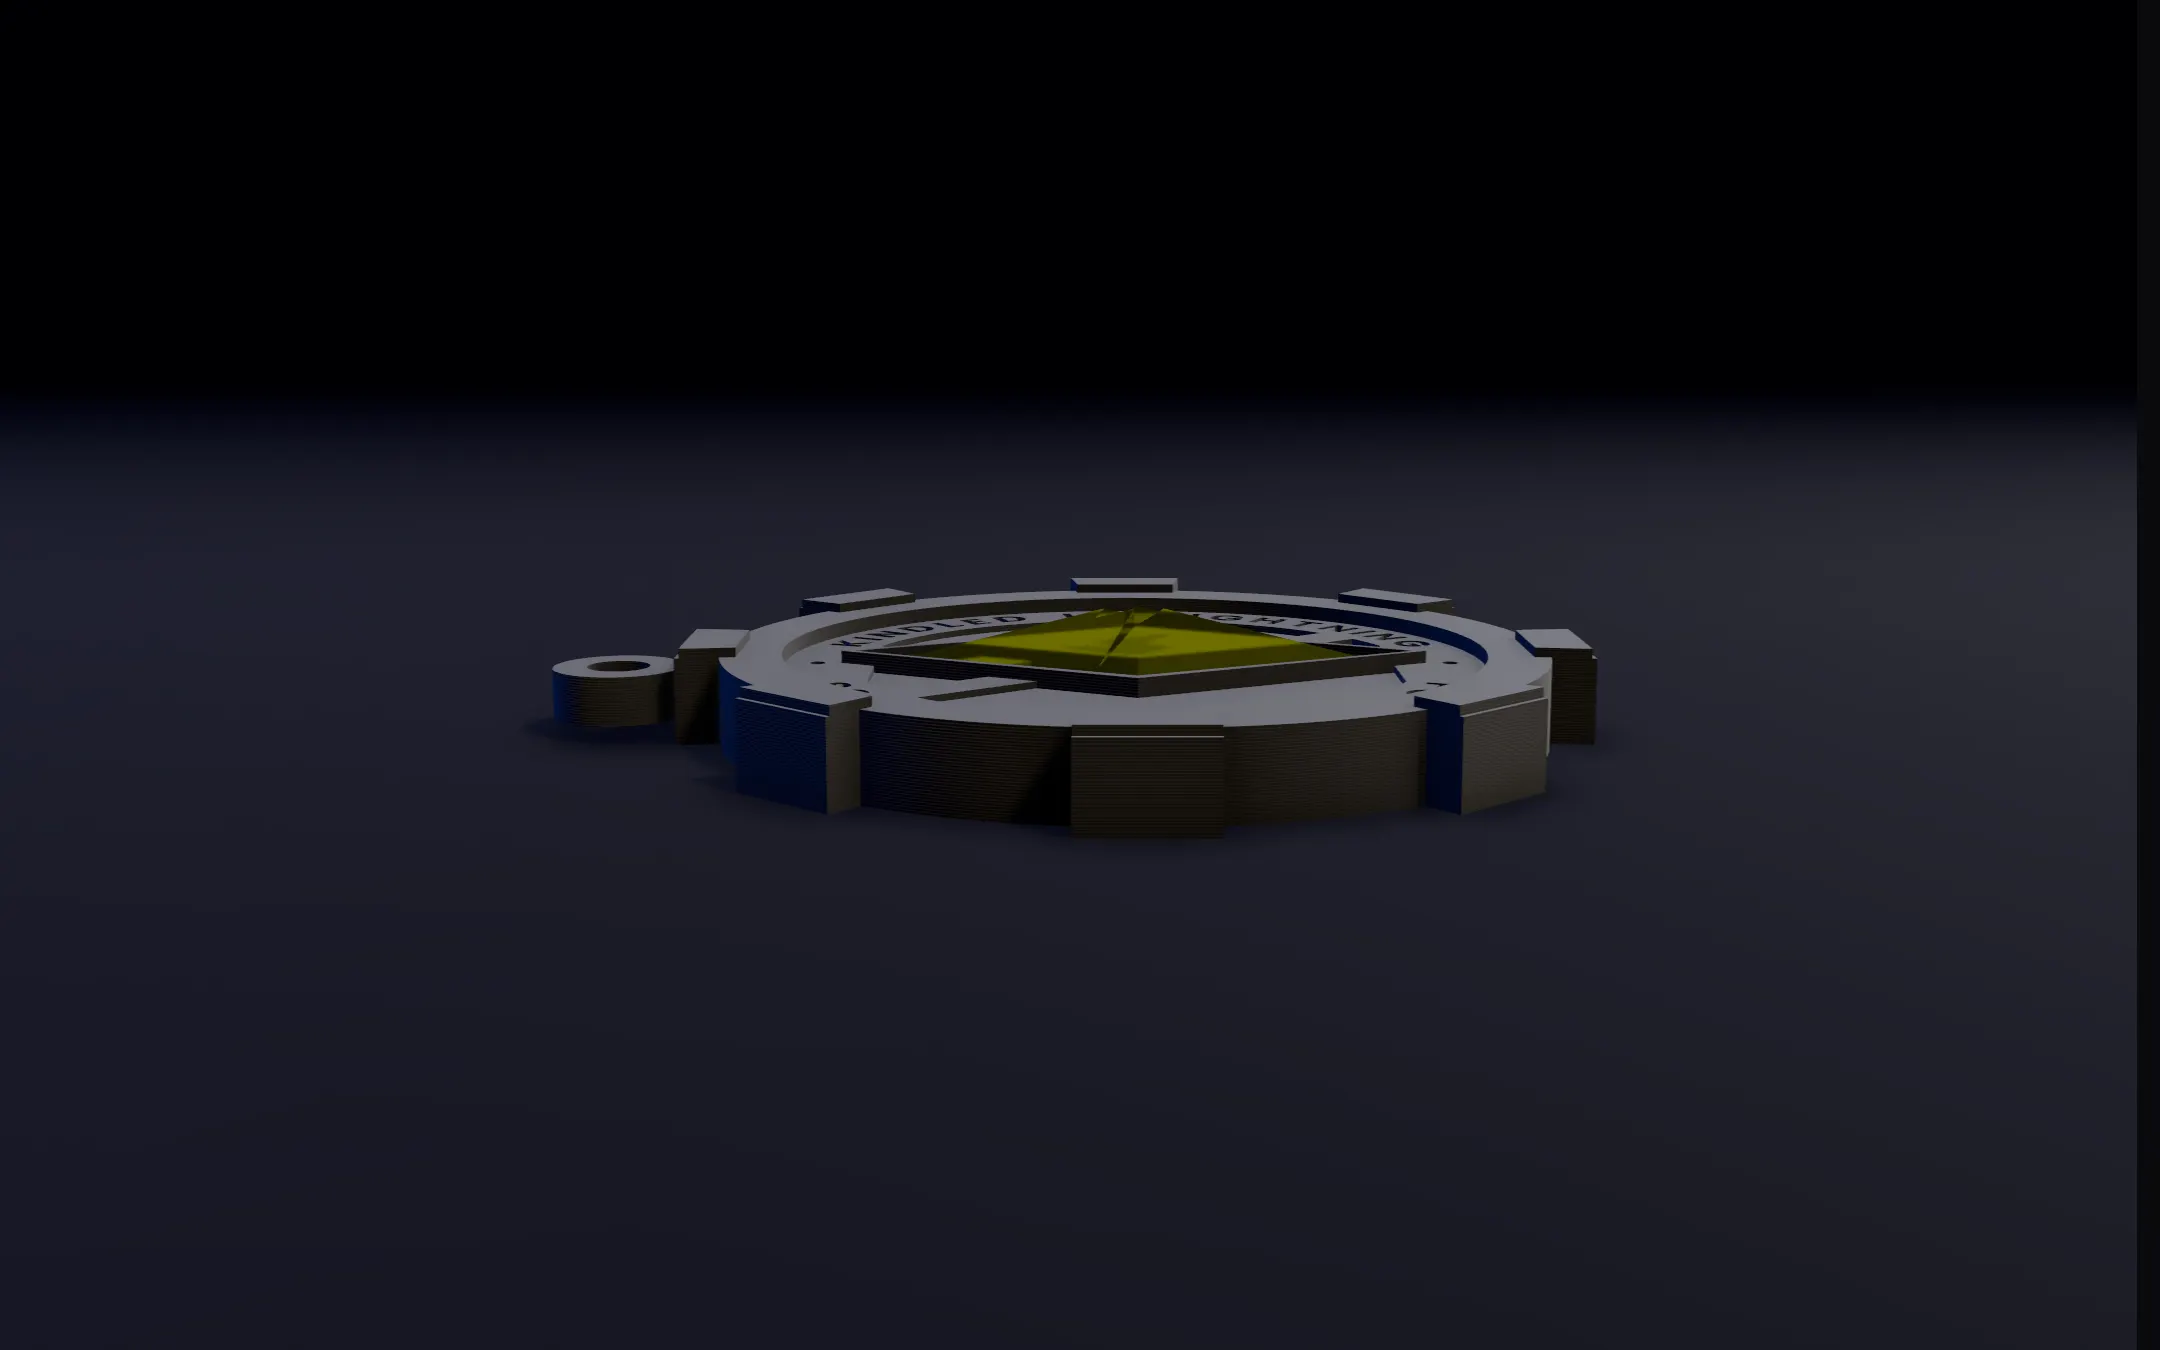
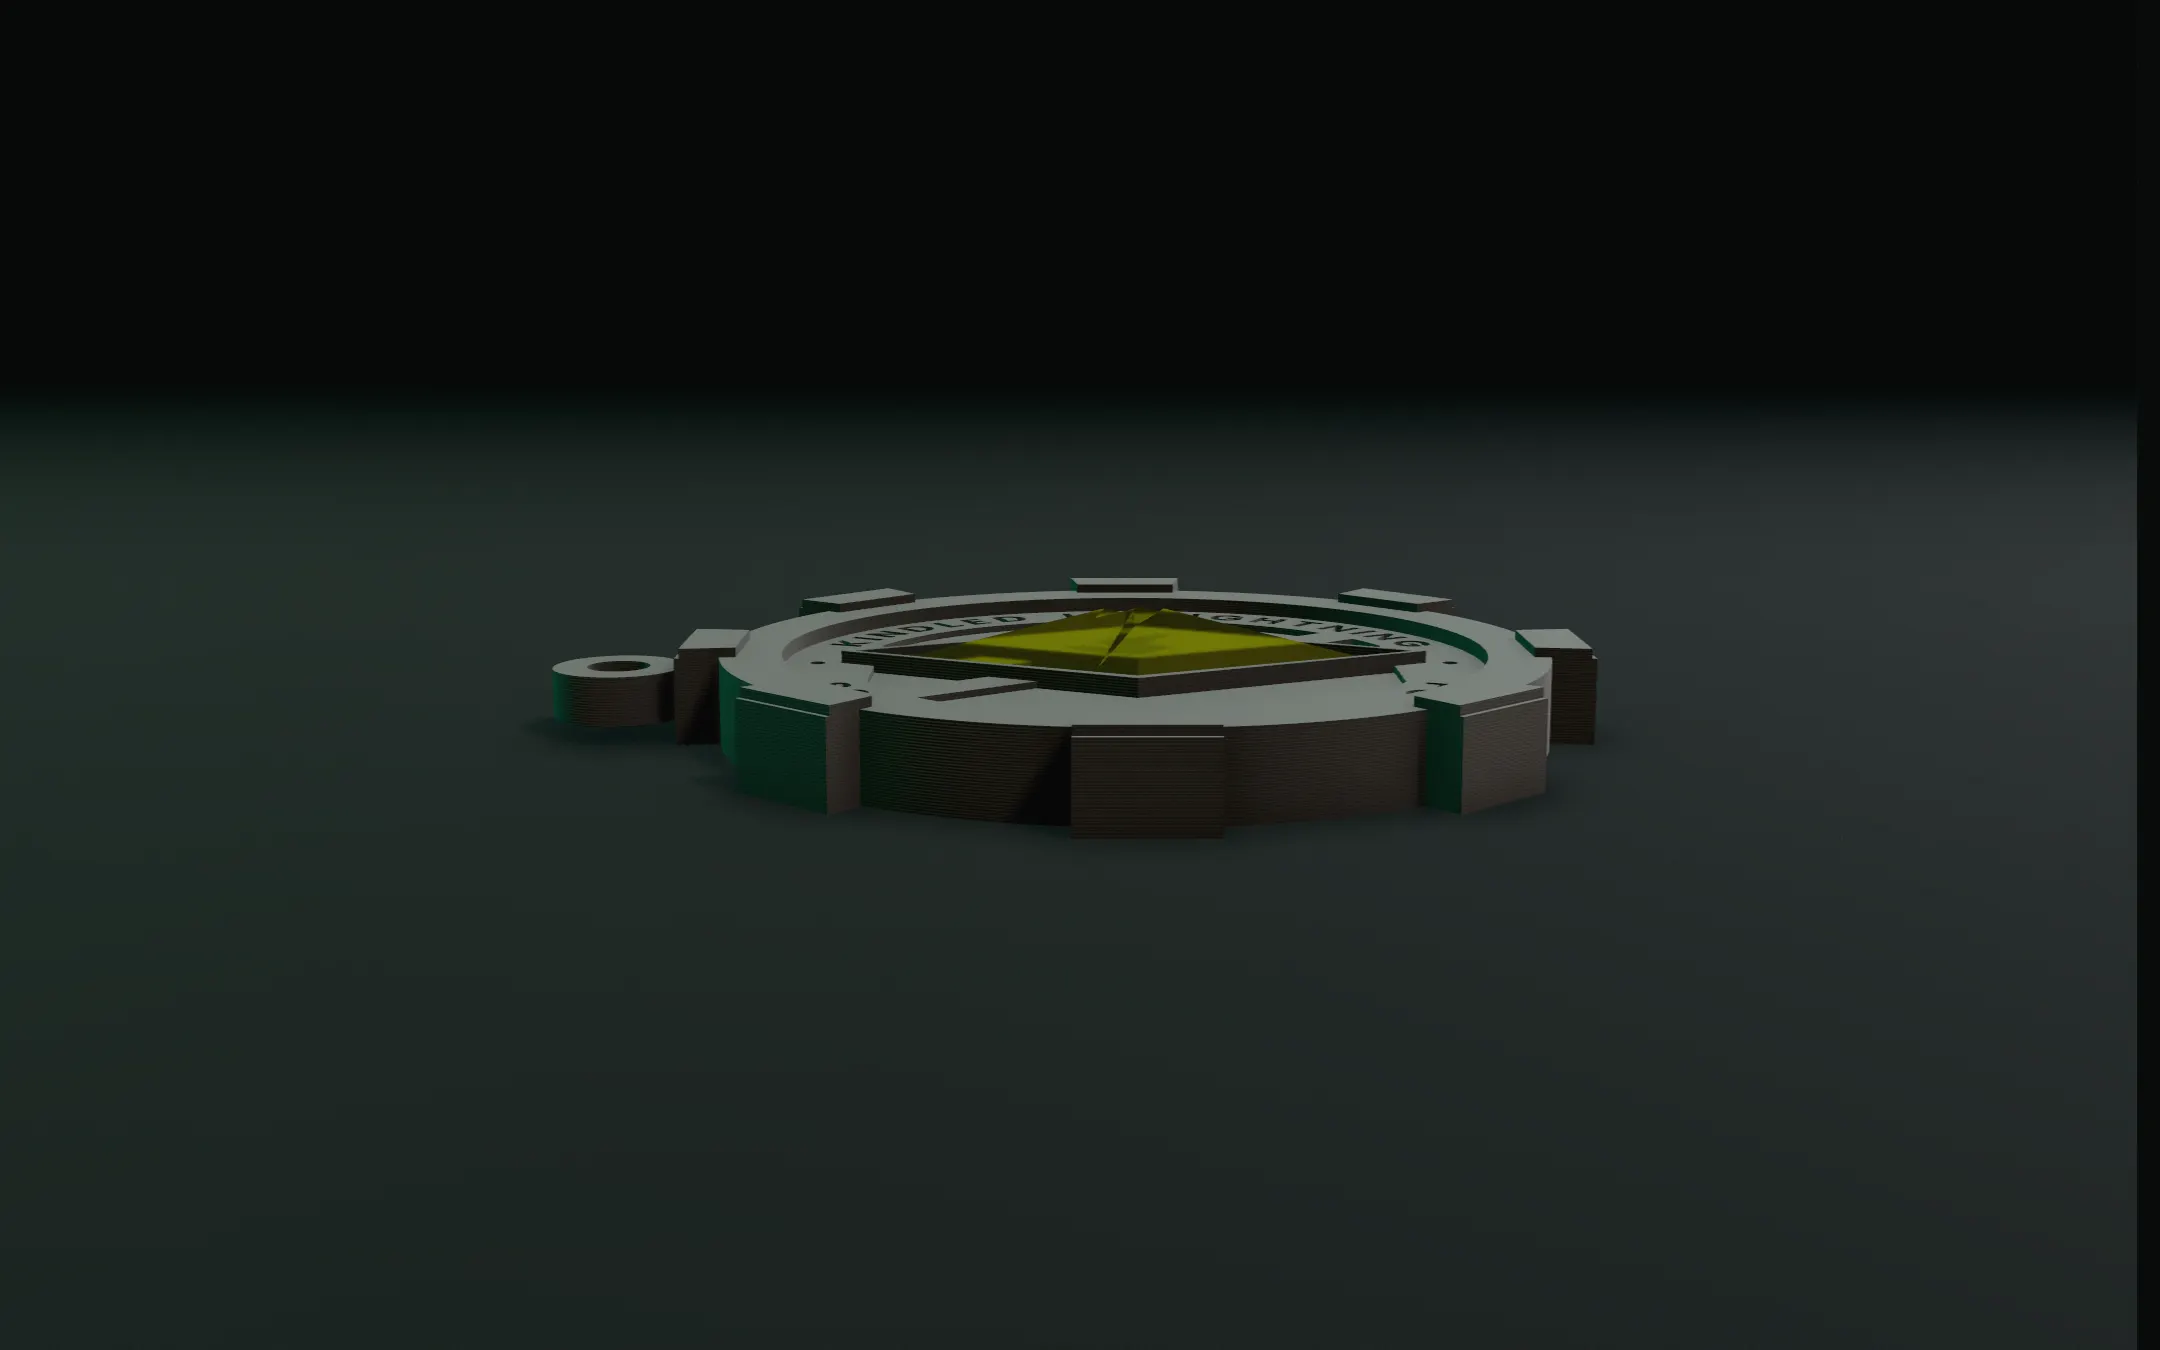
Mint colourway: #2EE6A6 accent on a mint-tinted black, dark text on mint buttons, mint rim light on the prints

diff --git a/src/components/prints/PrintCanvas.tsx b/src/components/prints/PrintCanvas.tsx
@@ -12,7 +12,7 @@ import { models, type ModelEntry } from "@/content/models";
 // panel's model is already in memory when its canvas mounts.
 for (const m of models) useGLTF.preload(m.glb, false, true);
 
-const BG = "#0a0a0c";
+const BG = "#090c0b";
 const { degToRad: rad, smoothstep } = THREE.MathUtils;
 const ease = (p: number, a: number, b: number) => smoothstep(p, a, b);
 
@@ -250,9 +250,9 @@ function Print({ model, progress, clickedAt, aside, onReady }: Omit<PrintCanvasP
 // camera. They're drawn after the backdrop and before the print, ignoring depth, so they sit on the
 // set but under the model. Each click flashes them and speeds them up for a moment.
 const BANNER_ROWS = [
-  { fill: false, color: "#3a4570", y: 1 },
-  { fill: true, color: "#4f7dff", y: 0 },
-  { fill: false, color: "#3a4570", y: -1 },
+  { fill: false, color: "#1f5c47", y: 1 },
+  { fill: true, color: "#2ee6a6", y: 0 },
+  { fill: false, color: "#1f5c47", y: -1 },
 ];
 function bannerTexture(fill: boolean) {
   const canvas = document.createElement("canvas");
@@ -409,13 +409,13 @@ function Studio({ radius, centre, orbit }: { radius: number; centre: THREE.Vecto
         shadow-camera-far={r * 12}
       />
       <directionalLight position={[r * 3, r * 1.5, r * 2]} intensity={0.5} color="#dfe6ff" />
-      <directionalLight position={[r * 1.5, r * 2.5, -r * 4]} intensity={1} color="#4f7dff" />
+      <directionalLight position={[r * 1.5, r * 2.5, -r * 4]} intensity={1} color="#2ee6a6" />
       {orbit && <directionalLight position={[0, r * 6, 0]} intensity={1.2} color="#ffffff" />}
       <spotLight ref={pool} position={[0, r * 5, r * 2]} angle={0.5} penumbra={1} decay={0} intensity={orbit ? 0 : 1.4} color="#e4e2f0" />
       <Environment resolution={256} environmentIntensity={orbit ? 1.1 : 0.75}>
         <Lightformer form="rect" intensity={3} position={[-2, 4, 3]} scale={[5, 3, 1]} target={[0, 0, 0]} />
         <Lightformer form="rect" intensity={1.2} position={[4, 1, 2]} scale={[2, 4, 1]} target={[0, 0, 0]} />
-        <Lightformer form="rect" intensity={2} color="#4f7dff" position={[2, 2, -4]} scale={[3, 2, 1]} target={[0, 0, 0]} />
+        <Lightformer form="rect" intensity={2} color="#2ee6a6" position={[2, 2, -4]} scale={[3, 2, 1]} target={[0, 0, 0]} />
         <Lightformer form="ring" intensity={0.6} position={[0, 6, 0]} scale={4} target={[0, 0, 0]} />
       </Environment>
     </>

diff --git a/src/components/prints/PrintStage.tsx b/src/components/prints/PrintStage.tsx
@@ -47,7 +47,7 @@ const STAGES: Record<string, { captions: Caption[]; place?: CaptionPlace; aside?
 };
 
 const WORDS = ["CLICK!", "CLACK!", "CLICK", "TAK!", "*click*", "CLIK!", "CLICK!!"];
-const COLORS = ["#ffffff", "#4f7dff", "#ff8fb1", "#ffd23f", "#93acff", "#7ef0c2"];
+const COLORS = ["#ffffff", "#2ee6a6", "#ff8fb1", "#ffd23f", "#8ff5d2", "#a78bfa"];
 const pick = <T,>(a: T[]) => a[Math.floor(Math.random() * a.length)];
 
 // A comic-style "CLICK!" somewhere on the stage; spam enough and they fill it.
@@ -142,7 +142,7 @@ export function PrintStage({ model, order }: { model: ModelEntry; order: number 
             <button
               type="button"
               onClick={click}
-              className="relative flex items-center gap-2.5 rounded-full bg-accent px-6 py-3.5 text-sm font-bold tracking-[0.16em] text-white uppercase shadow-[0_0_0_6px_rgb(79_125_255/0.18),0_10px_40px_rgb(79_125_255/0.55)] transition hover:scale-105 active:scale-95 md:text-base"
+              className="relative flex items-center gap-2.5 rounded-full bg-accent px-6 py-3.5 text-sm font-bold tracking-[0.16em] text-bg uppercase shadow-[0_0_0_6px_rgb(46_230_166/0.18),0_10px_40px_rgb(46_230_166/0.55)] transition hover:scale-105 active:scale-95 md:text-base"
             >
               <span className="absolute inset-0 animate-ping rounded-full bg-accent/40 [animation-duration:1.8s]" aria-hidden="true" />
               <MousePointerClick className="relative size-5" aria-hidden="true" />

diff --git a/src/components/SoundPrompt.tsx b/src/components/SoundPrompt.tsx
@@ -32,7 +32,7 @@ export function SoundPrompt() {
       }}
       className="m-auto w-[min(40rem,calc(100%-2.5rem))] overflow-visible bg-transparent text-ink backdrop:bg-bg/80 backdrop:backdrop-blur-xl open:animate-[sound-in_0.5s_cubic-bezier(0.2,1,0.3,1)]"
     >
-      <div className="relative overflow-hidden rounded-3xl border border-line bg-surface/90 px-7 py-10 text-center shadow-[0_40px_160px_rgb(79_125_255/0.25)] md:px-14 md:py-14">
+      <div className="relative overflow-hidden rounded-3xl border border-line bg-surface/90 px-7 py-10 text-center shadow-[0_40px_160px_rgb(46_230_166/0.25)] md:px-14 md:py-14">
         <div
           className="pointer-events-none absolute -top-24 left-1/2 size-72 -translate-x-1/2 rounded-full bg-accent/25 blur-3xl"
           aria-hidden="true"
@@ -57,7 +57,7 @@ export function SoundPrompt() {
             type="button"
             autoFocus
             onClick={() => answer(true)}
-            className="flex items-center justify-center gap-2.5 rounded-full bg-accent px-8 py-4 text-lg font-semibold text-white shadow-[0_10px_40px_rgb(79_125_255/0.5)] transition hover:scale-[1.03] active:scale-95"
+            className="flex items-center justify-center gap-2.5 rounded-full bg-accent px-8 py-4 text-lg font-semibold text-bg shadow-[0_10px_40px_rgb(46_230_166/0.5)] transition hover:scale-[1.03] active:scale-95"
           >
             <Volume2 className="size-5" aria-hidden="true" /> Turn sound on
           </button>

diff --git a/src/app/globals.css b/src/app/globals.css
@@ -1,15 +1,15 @@
 @import "tailwindcss";
 
 @theme {
-  --color-bg: #0a0a0c;
+  --color-bg: #090c0b;
   --color-surface: #121218;
   --color-raised: #18181f;
   --color-ink: #ecebf0;
   --color-muted: #8d8c99;
   --color-faint: #55545e;
   --color-line: rgb(255 255 255 / 0.09);
-  --color-accent: #4f7dff;
-  --color-accent-soft: #93acff;
+  --color-accent: #2ee6a6;
+  --color-accent-soft: #8ff5d2;
   --font-sans: var(--font-geist-sans), ui-sans-serif, system-ui, sans-serif;
   --font-mono: var(--font-geist-mono), ui-monospace, monospace;
 }
@@ -34,7 +34,7 @@ body {
 
 ::selection {
   background: var(--color-accent);
-  color: #fff;
+  color: var(--color-bg);
 }
 
 :focus-visible {
@@ -153,7 +153,7 @@ body {
   pointer-events: none;
   border-radius: 9999px;
   z-index: 0;
-  background: radial-gradient(circle, rgb(79 125 255 / 0.45), rgb(79 125 255 / 0) 65%);
+  background: radial-gradient(circle, rgb(46 230 166 / 0.45), rgb(46 230 166 / 0) 65%);
 }
 
 /* Hero intro, done in CSS so it plays before hydration. */
@@ -306,9 +306,9 @@ html.lenis body {
   letter-spacing: -0.03em;
   line-height: 1;
   white-space: nowrap;
-  -webkit-text-stroke: 7px #0a0a0c;
+  -webkit-text-stroke: 7px #090c0b;
   paint-order: stroke fill;
-  text-shadow: 4px 5px 0 #0a0a0c;
+  text-shadow: 4px 5px 0 #090c0b;
   transform: translate(-50%, -50%) rotate(var(--r)) scale(var(--s));
   animation:
     sfx-pop 0.38s cubic-bezier(0.2, 1.7, 0.4, 1) both,

diff --git a/src/app/opengraph-image.tsx b/src/app/opengraph-image.tsx
@@ -16,19 +16,19 @@ export default function OpengraphImage() {
         flexDirection: "column",
         justifyContent: "space-between",
         padding: "72px 80px",
-        background: "radial-gradient(circle at 78% 72%, rgba(79,125,255,0.45), rgba(79,125,255,0.06) 38%, #0a0a0c 62%)",
-        backgroundColor: "#0a0a0c",
+        background: "radial-gradient(circle at 78% 72%, rgba(46,230,166,0.45), rgba(46,230,166,0.06) 38%, #090c0b 62%)",
+        backgroundColor: "#090c0b",
         color: "#ecebf0",
         fontFamily: "sans-serif",
       }}
     >
-      <div style={{ display: "flex", fontSize: 30, color: "#93acff" }}>Hello! I&apos;m</div>
+      <div style={{ display: "flex", fontSize: 30, color: "#8ff5d2" }}>Hello! I&apos;m</div>
       <div style={{ display: "flex", flexDirection: "column", fontSize: 140, fontWeight: 700, lineHeight: 0.9, letterSpacing: -4 }}>
         <span>NIHAL</span>
         <span>AYOOB</span>
       </div>
       <div style={{ display: "flex", justifyContent: "space-between", alignItems: "flex-end" }}>
-        <div style={{ display: "flex", fontSize: 44, fontWeight: 700, color: "#4f7dff", letterSpacing: -1 }}>
+        <div style={{ display: "flex", fontSize: 44, fontWeight: 700, color: "#2ee6a6", letterSpacing: -1 }}>
           ENGINEER · FULL-STACK · ANDROID · 3D
         </div>
         <div style={{ display: "flex", fontSize: 22, color: "#8d8c99" }}>{site.location}</div>

diff --git a/src/components/Contact.tsx b/src/components/Contact.tsx
@@ -7,7 +7,7 @@ export function Contact() {
       <div
         aria-hidden="true"
         className="pointer-events-none absolute -bottom-1/2 left-1/2 h-[40rem] w-[60rem] -translate-x-1/2 rounded-full"
-        style={{ background: "radial-gradient(closest-side, rgb(79 125 255 / 0.22), transparent)" }}
+        style={{ background: "radial-gradient(closest-side, rgb(46 230 166 / 0.22), transparent)" }}
       />
       <div className="relative mx-auto max-w-7xl">
         <p className="eyebrow">Get in touch</p>
@@ -17,7 +17,7 @@ export function Contact() {
         <div className="mt-10 flex flex-wrap gap-3">
           <a
             href={`mailto:${site.email}`}
-            className="inline-flex items-center gap-2 rounded-full bg-accent px-6 py-3 font-medium text-white transition hover:bg-accent/85"
+            className="inline-flex items-center gap-2 rounded-full bg-accent px-6 py-3 font-medium text-bg transition hover:bg-accent/85"
           >
             <Mail className="size-4" aria-hidden="true" /> Email me
           </a>

diff --git a/src/app/not-found.tsx b/src/app/not-found.tsx
@@ -7,7 +7,7 @@ export default function NotFound() {
       <div
         aria-hidden="true"
         className="pointer-events-none absolute top-1/2 left-1/2 size-[44rem] -translate-1/2 rounded-full"
-        style={{ background: "radial-gradient(closest-side, rgb(79 125 255 / 0.22), transparent)" }}
+        style={{ background: "radial-gradient(closest-side, rgb(46 230 166 / 0.22), transparent)" }}
       />
       <div className="relative">
         <p className="eyebrow">Error 404</p>
@@ -19,7 +19,7 @@ export default function NotFound() {
         </p>
         <Link
           href="/"
-          className="mt-10 inline-flex items-center gap-2 rounded-full bg-accent px-6 py-3 font-medium text-white hover:bg-accent/85"
+          className="mt-10 inline-flex items-center gap-2 rounded-full bg-accent px-6 py-3 font-medium text-bg hover:bg-accent/85"
         >
           <ArrowLeft className="size-4" aria-hidden="true" /> Back to the portfolio
         </Link>

diff --git a/src/components/showcase/Showcase.tsx b/src/components/showcase/Showcase.tsx
@@ -229,7 +229,7 @@ export function Captions({ items, place = "side" }: { items: readonly Caption[];
           data-caption
           className={`invisible col-start-1 row-start-1 ${place === "corner" ? "lg:rounded-2xl lg:border lg:border-line lg:bg-bg/70 lg:p-8 lg:backdrop-blur-md" : ""}`}
         >
-          <span className="block h-1 w-12 rounded-full bg-accent shadow-[0_0_18px_rgb(79_125_255)]" aria-hidden="true" />
+          <span className="block h-1 w-12 rounded-full bg-accent shadow-[0_0_18px_rgb(46_230_166)]" aria-hidden="true" />
           <p className="display mt-5 bg-linear-to-br from-white from-40% to-accent-soft bg-clip-text pb-1 text-[clamp(2.1rem,3.7vw,4.2rem)] text-balance text-transparent">
             {title}
           </p>

diff --git a/src/components/Journey.tsx b/src/components/Journey.tsx
@@ -45,7 +45,7 @@ export function Journey() {
               className="relative grid gap-2 pb-16 pl-10 last:pb-0 md:grid-cols-2 md:gap-16 md:pl-0"
             >
               <span
-                className="absolute top-2 left-0 size-[15px] rounded-full border-2 border-bg bg-accent shadow-[0_0_18px_rgb(79_125_255/0.8)] md:left-1/2 md:-translate-x-1/2"
+                className="absolute top-2 left-0 size-[15px] rounded-full border-2 border-bg bg-accent shadow-[0_0_18px_rgb(46_230_166/0.8)] md:left-1/2 md:-translate-x-1/2"
                 aria-hidden="true"
               />
               <div className="md:flex md:items-start md:justify-between md:gap-6 md:pr-10">

diff --git a/src/components/SoundToggle.tsx b/src/components/SoundToggle.tsx
@@ -30,7 +30,7 @@ export function SoundToggle({ variant = "pill", className = "" }: { variant?: "p
       onClick={sound.toggle}
       aria-pressed={state === "on"}
       className={`flex items-center gap-2 rounded-full border border-line bg-bg/75 px-4 py-2.5 text-sm font-semibold backdrop-blur hover:border-accent ${
-        state === "locked" ? "text-ink shadow-[0_0_24px_rgb(79_125_255/0.35)]" : "text-ink/75"
+        state === "locked" ? "text-ink shadow-[0_0_24px_rgb(46_230_166/0.35)]" : "text-ink/75"
       } ${className}`}
     >
       <Icon className="size-4" aria-hidden="true" />

diff --git a/src/components/showcase/DeckReel.tsx b/src/components/showcase/DeckReel.tsx
@@ -126,7 +126,7 @@ export function DeckReel() {
           trip-photo.jpg
         </div>
         <div className="absolute inset-x-0 bottom-0 flex h-12 items-center justify-center gap-2 bg-[#14141c]/85 backdrop-blur">
-          {["#4f7dff", "#f3c969", "#e5564b", "#3fbf8a", "#a76cf0"].map((bg) => (
+          {["#2ee6a6", "#f3c969", "#e5564b", "#3fbf8a", "#a76cf0"].map((bg) => (
             <span key={bg} className="size-8 rounded-md opacity-90" style={{ background: bg }} />
           ))}
           <span className="absolute right-5 text-xs text-white/75">5:32 PM</span>

diff --git a/src/components/Hero.tsx b/src/components/Hero.tsx
@@ -97,7 +97,7 @@ export function Hero() {
           ref={glow}
           className="h-full w-full rounded-full"
           style={{
-            background: "radial-gradient(circle, rgb(79 125 255 / 0.42), rgb(79 125 255 / 0.08) 45%, rgb(79 125 255 / 0) 70%)",
+            background: "radial-gradient(circle, rgb(46 230 166 / 0.42), rgb(46 230 166 / 0.08) 45%, rgb(46 230 166 / 0) 70%)",
             animation: "breathe 6s ease-in-out 1.6s infinite",
           }}
         />
